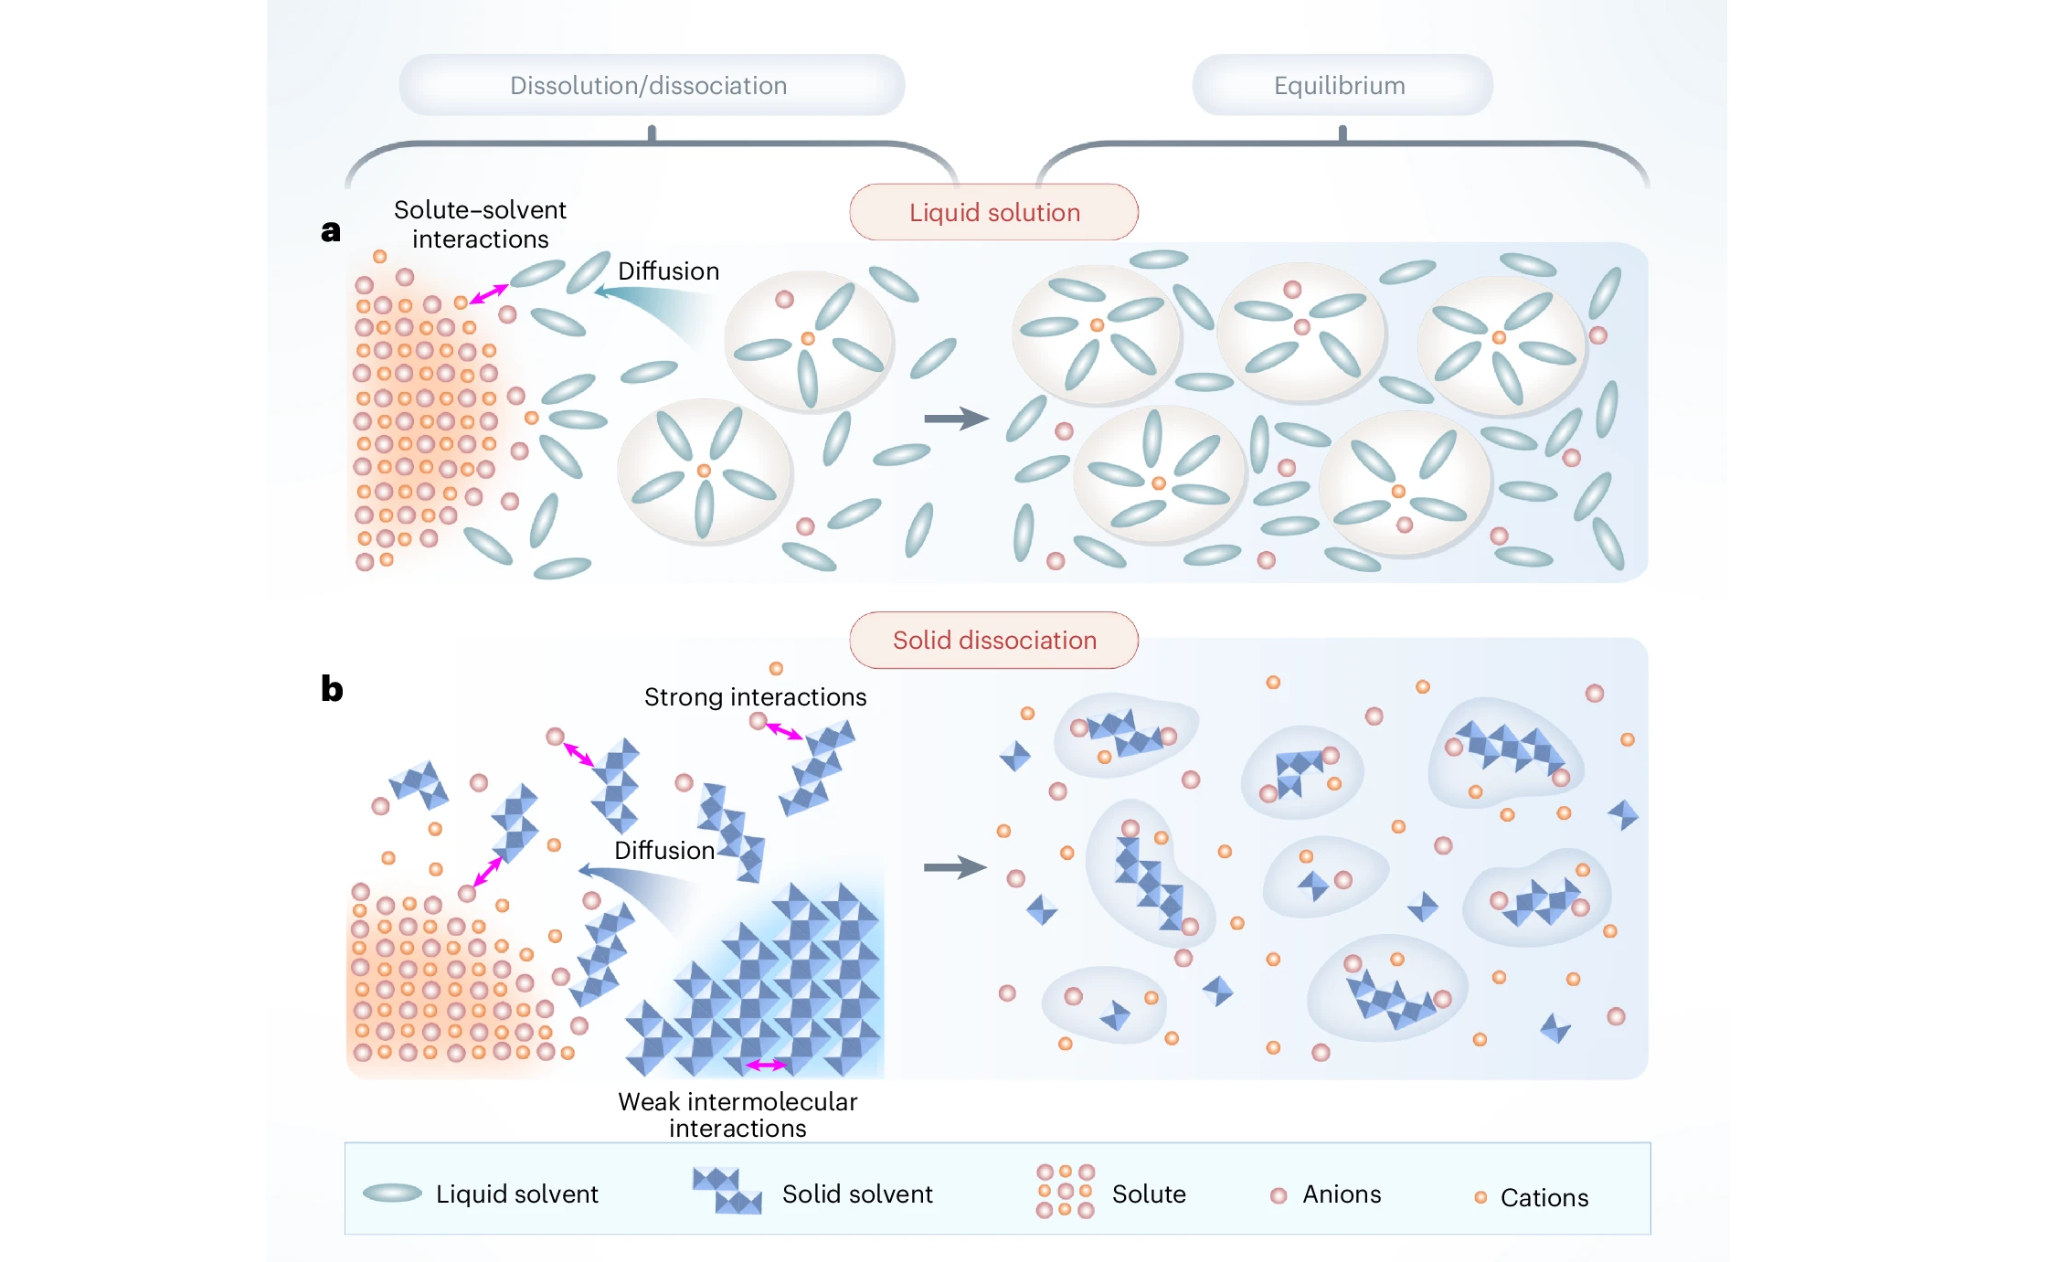
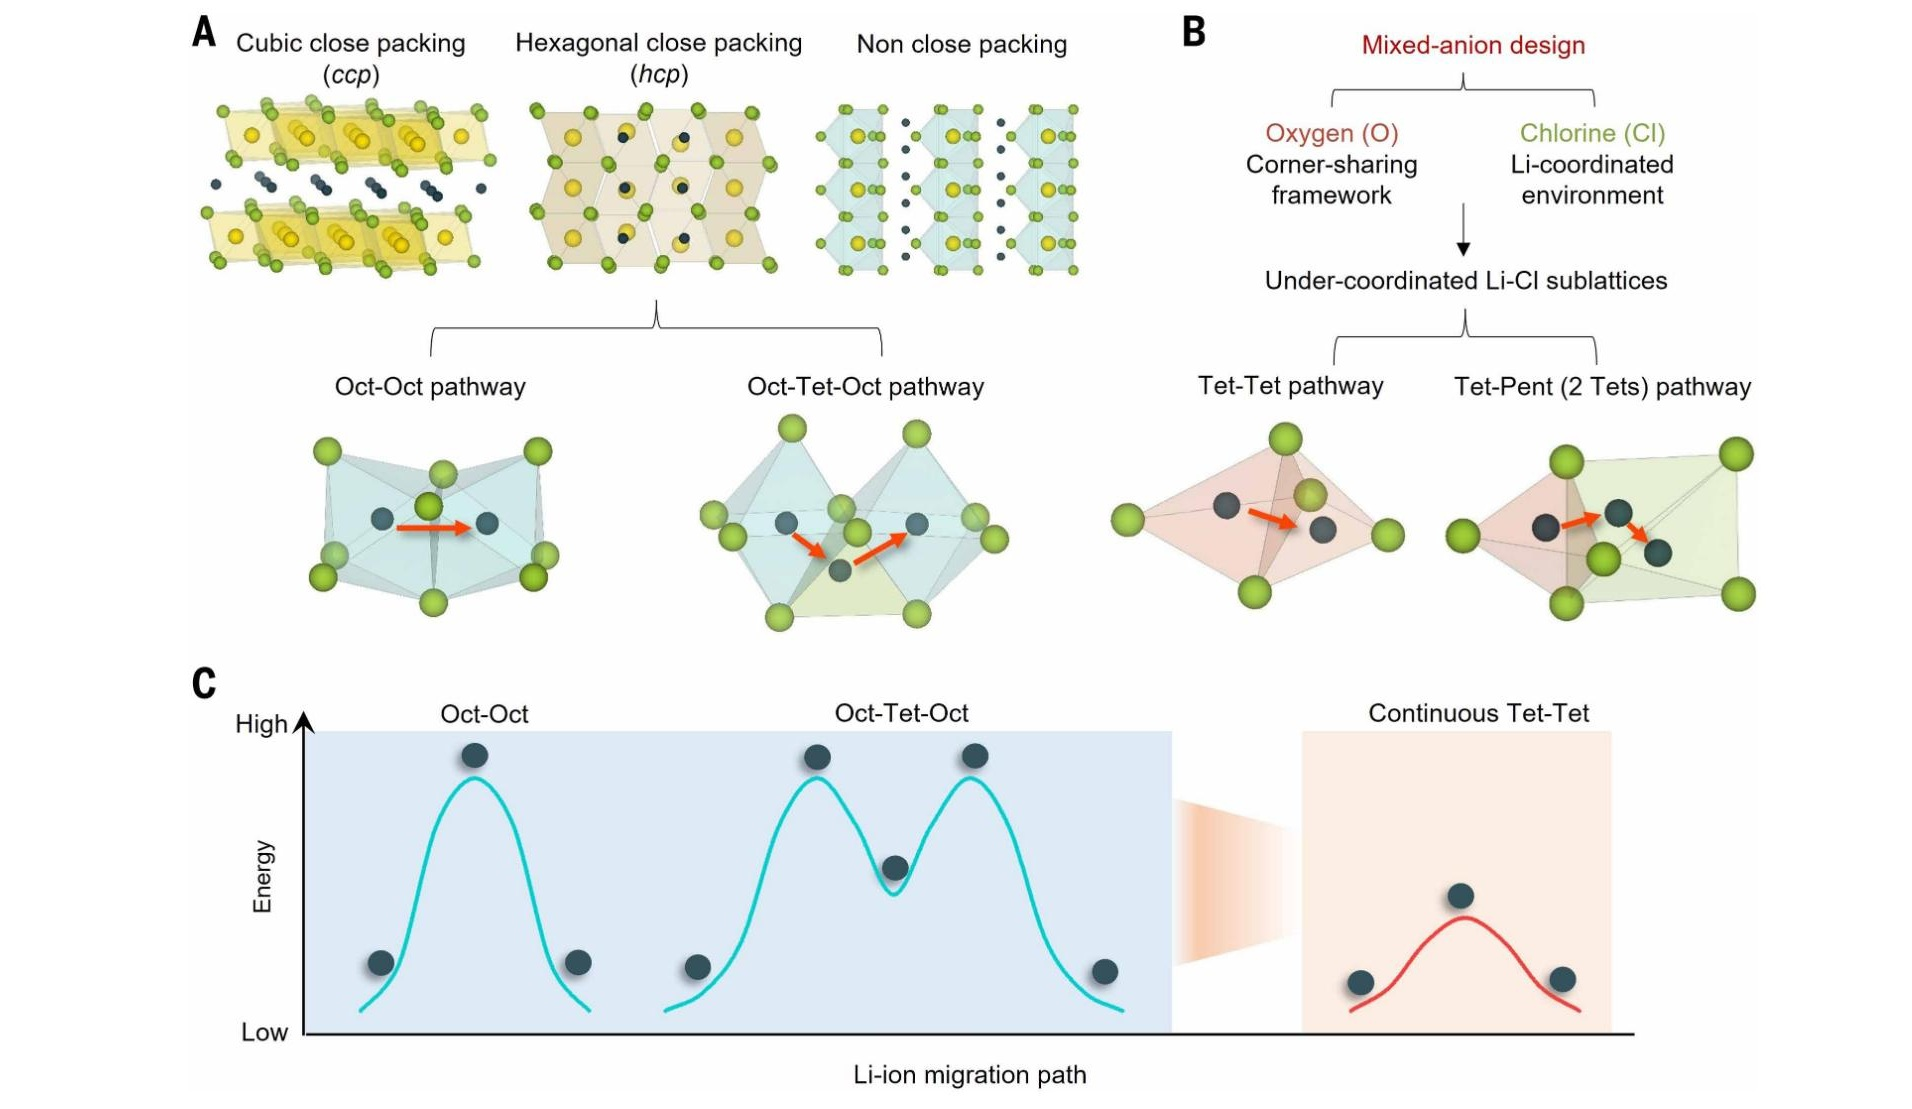
add new

diff --git a/index.html b/index.html
@@ -37,10 +37,10 @@
 <main>
 <section aria-label="Lab highlights" class="hero">
 <div class="TopPhoto is-active"><img alt="Lab highlight image 1" src="./assets/home/top1-1.jpg"></div>
-<div class="TopPhoto"><a class="link" href="https://doi.org/10.1038/s41560-026-02090-x" target="_blank"><img alt="Lab highlight image 2" src="./assets/home/top1-2.jpg"/></a></div>
-<div class="TopPhoto"><a class="link" href="https://doi.org/10.1038/s41586-025-09153-1" target="_blank"><img alt="Lab highlight image 3" src="./assets/home/top1-3.jpg"/></a></div>
-<div class="TopPhoto"><a class="link" href="https://doi.org/10.1038/s41560-025-01853-2" target="_blank"><img alt="Lab highlight image 4" src="./assets/home/top1-5.jpg"/></a></div>
-<div class="TopPhoto"><a class="link" href="https://doi.org/10.1038/s44286-024-00079-5" target="_blank"><img alt="Lab highlight image 4" src="./assets/home/top1-4.jpg"/></a></div>
+<div class="TopPhoto"><img alt="Lab highlight image 2" src="./assets/home/top1-2.jpg"/><a class="link" href="https://doi.org/10.1038/s41560-026-02090-x" target="_blank">《Electronic conductivity of solid electrolytes causes physical self-discharge in all-solid-state batteries. Nature Energy, 2026》</h4></a></div>
+<div class="TopPhoto"><img alt="Lab highlight image 3" src="./assets/home/top1-3.jpg"/><a class="link" href="https://doi.org/10.1038/s41586-025-09153-1" target="_blank">《A cost-effective all-in-one halide material for all-solid-state batteries. Nature 2025, 643, 111.》</a></div>
+<div class="TopPhoto"><img alt="Lab highlight image 4" src="./assets/home/top1-5.jpg"/><a class="link" href="https://doi.org/10.1126/science.adt9678" target="_blank">《Anion sublattice design enables superionic conductivity in crystalline oxyhalides. Science 2025, 390, 199.》</a></div>
+<div class="TopPhoto"><img alt="Lab highlight image 4" src="./assets/home/top1-4.jpg"/><a class="link" href="https://doi.org/10.1038/s44286-024-00079-5" target="_blank">《All-solid-state lithium–sulfur batteries through a reaction engineering lens.  Nature Chemical Engineering, 2024, 1, 400.》</a></div>
 <!-- <div class="TopPhoto"><img alt="Lab highlight image 5" src="./assets/home/top2-2.webp"/></div>
 <div class="TopPhoto"><img alt="Lab highlight image 6" src="./assets/home/top2-3.webp"/></div>
 <div class="TopPhoto"><img alt="Lab highlight image 7" src="./assets/home/top3-1.webp"/></div> -->

diff --git a/assets/css/common.css b/assets/css/common.css
@@ -167,6 +167,21 @@ a:hover { color: var(--primary-600); background-color: transparent; }
 	object-fit: cover;
 }
 
+.TopPhoto a {
+	margin: 0;
+    font-size: 18px;
+    color: var(--text);
+    line-height: 1.5;
+    font-weight: bold;
+
+    position: absolute;
+    bottom: 10px;
+    left: 50%;
+    transform: translateX(-50%);
+    text-align: center;
+    width: 100%;
+}
+
 /* --- 高级半透明切换按钮 --- */
 .slider-btn {
 	position: absolute;
